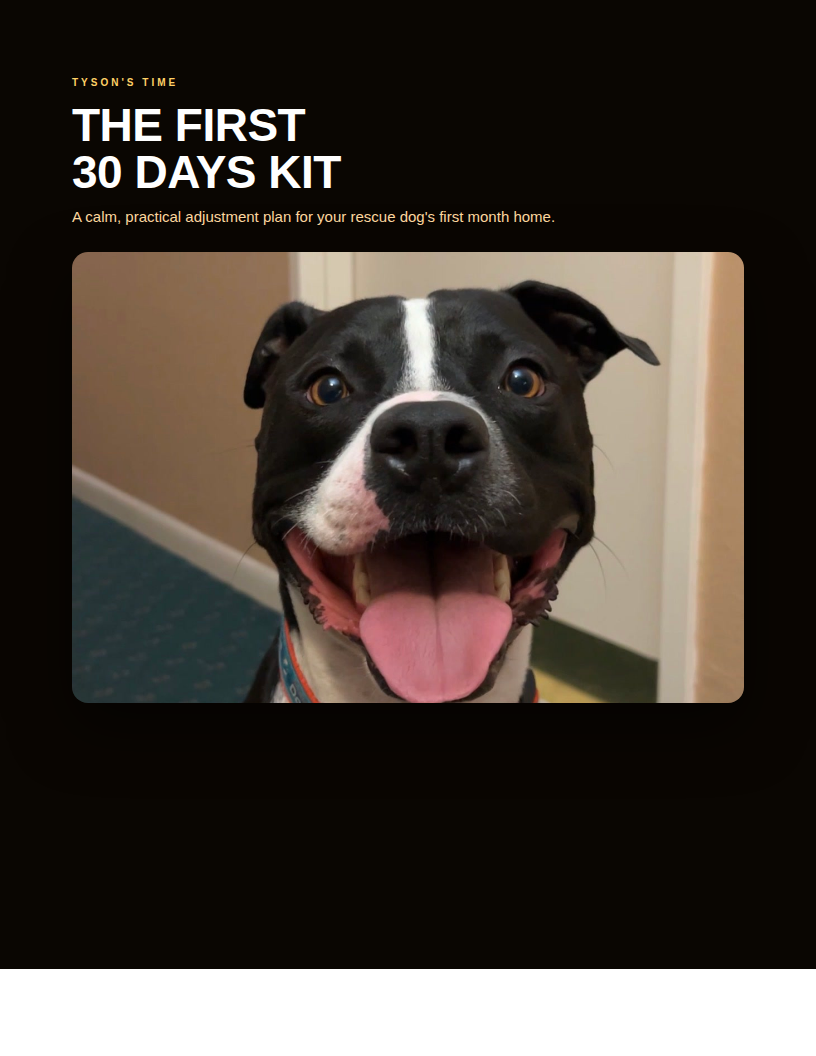
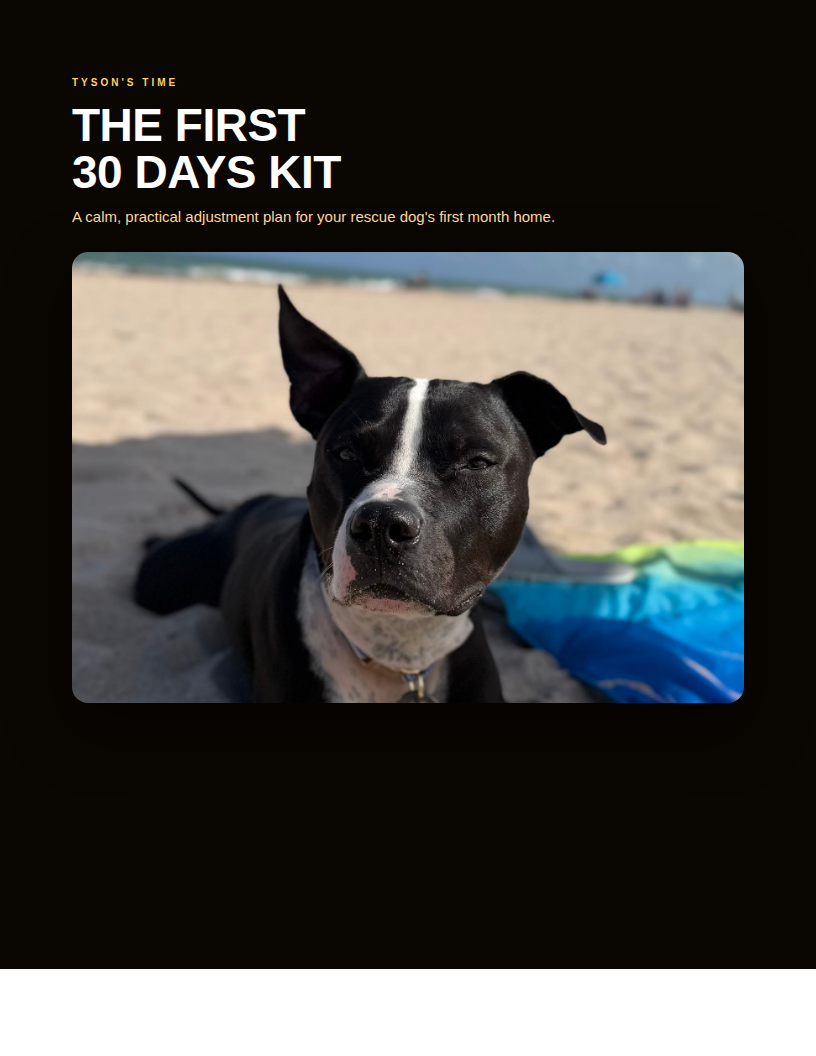
Upgrade kit visuals: beach photo cover, Tyson-and-Miss photo on About page
Cover now uses the beach portrait (full head, ocean backdrop) instead of
the hallway shot; page 15 gains a photo of Tyson watching Miss with a
caption. PDF regenerated (15 pages), hero and preview images updated.

Claude-Session: https://claude.ai/code/session_01M88ViHiBmZuAVDuXioXHAC

Changed region(s): [[0.0613, 0.2188, 0.9191, 0.6875]]

diff --git a/kit-site/product/first-30-days-kit.html b/kit-site/product/first-30-days-kit.html
@@ -40,7 +40,7 @@
   .cover h1 { font-size: 46px; line-height: 1.02; margin: 14px 0 10px; }
   .cover .sub { font-size: 15px; color: #ffd9a0; max-width: 5.4in; line-height: 1.5; }
   .cover .photo { margin: 24px 0 0; border-radius: 16px; overflow: hidden; height: 4.7in; box-shadow: 0 24px 60px rgba(0,0,0,0.5); }
-  .cover .photo img { width: 100%; height: 100%; object-fit: cover; object-position: 50% 74%; }
+  .cover .photo img { width: 100%; height: 100%; object-fit: cover; object-position: 50% 40%; }
   .cover .base { position: absolute; bottom: 0.55in; left: 0.75in; right: 0.75in; display: flex; justify-content: space-between; align-items: flex-end; }
   .cover .base .tag { font-size: 11px; color: #ffd9a0; }
   .cover .base .brand { font-size: 13px; font-weight: 800; letter-spacing: 2px; color: #ffb020; }
@@ -60,7 +60,7 @@
   <div class="kicker">Tyson's Time</div>
   <h1>THE FIRST<br>30 DAYS KIT</h1>
   <div class="sub">A calm, practical adjustment plan for your rescue dog's first month home.</div>
-  <div class="photo"><img src="cover-tyson.jpg" alt="Tyson"></div>
+  <div class="photo"><img src="cover-tyson-beach.jpg" alt="Tyson relaxing on the beach"></div>
   <div class="base">
     <div class="tag">Built from one rescue's real first month.</div>
     <div class="brand">TYSON'S TIME</div>
@@ -462,7 +462,9 @@
   <div class="box">
     <p><b>Please read:</b> The First 30 Days Kit is an educational and organizational resource for new rescue-dog adopters. It is not veterinary care, medical advice, or professional behavior treatment, and it does not guarantee any specific behavioral outcome — every dog's history and pace are different. Always consult a licensed veterinarian for health concerns and a qualified trainer or veterinary behavior professional for concerning behavior, especially anything involving fear, aggression, or safety. If a dog ever makes you feel unsafe, contact a professional before continuing any plan — including this one.</p>
   </div>
-  <h2>About Tyson's Time</h2>
+  <div style="margin:18px 0 14px; border-radius: 12px; overflow: hidden; box-shadow: 0 10px 30px rgba(0,0,0,0.18);"><img src="tyson-and-miss.jpg" alt="Tyson gently watching Miss the kitten" style="width:100%; display:block;"></div>
+  <p class="mut" style="font-size:10px; margin-top:-8px; margin-bottom:14px;">Tyson and his newest family member, Miss — patience, as taught by a 60-pound pit bull.</p>
+  <h2>About Tyson&apos;s Time</h2>
   <p>Tyson is a real rescue. His first month home wasn't about training — it was about safety, patience, and a rhythm repeated every single day. This kit is the plan his family wishes they'd had on day one, organized so yours starts calmer than theirs did.</p>
   <h2>Support</h2>
   <p>Questions about your order or the kit? Message <b>@tysonstime</b> on Instagram — replies come from the humans behind the account.</p>